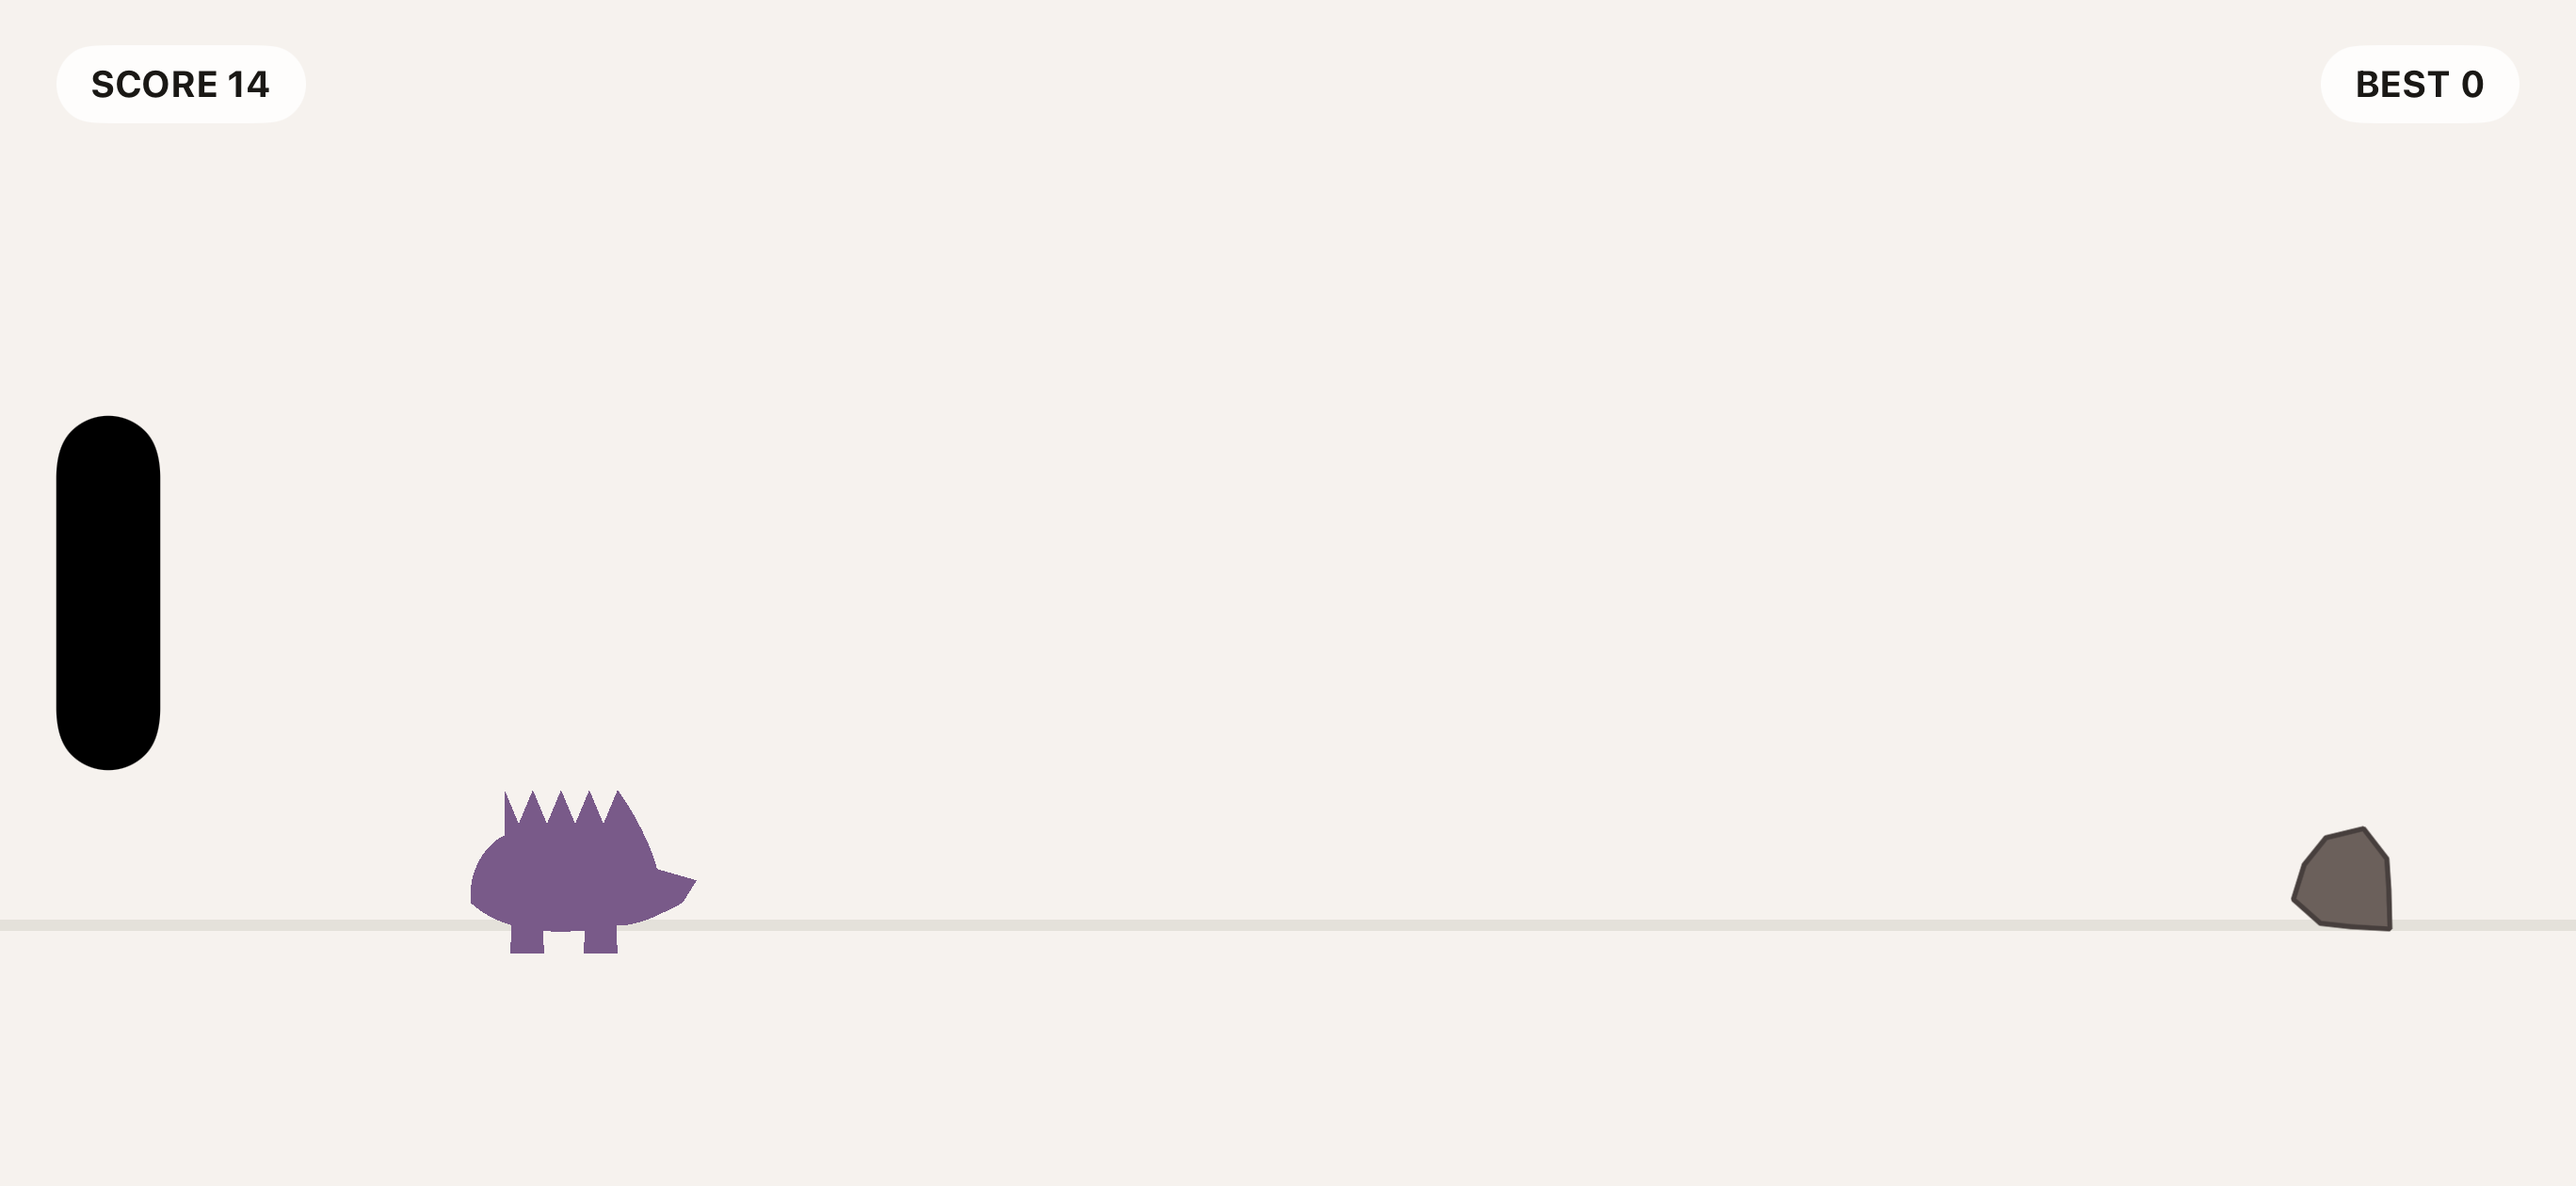
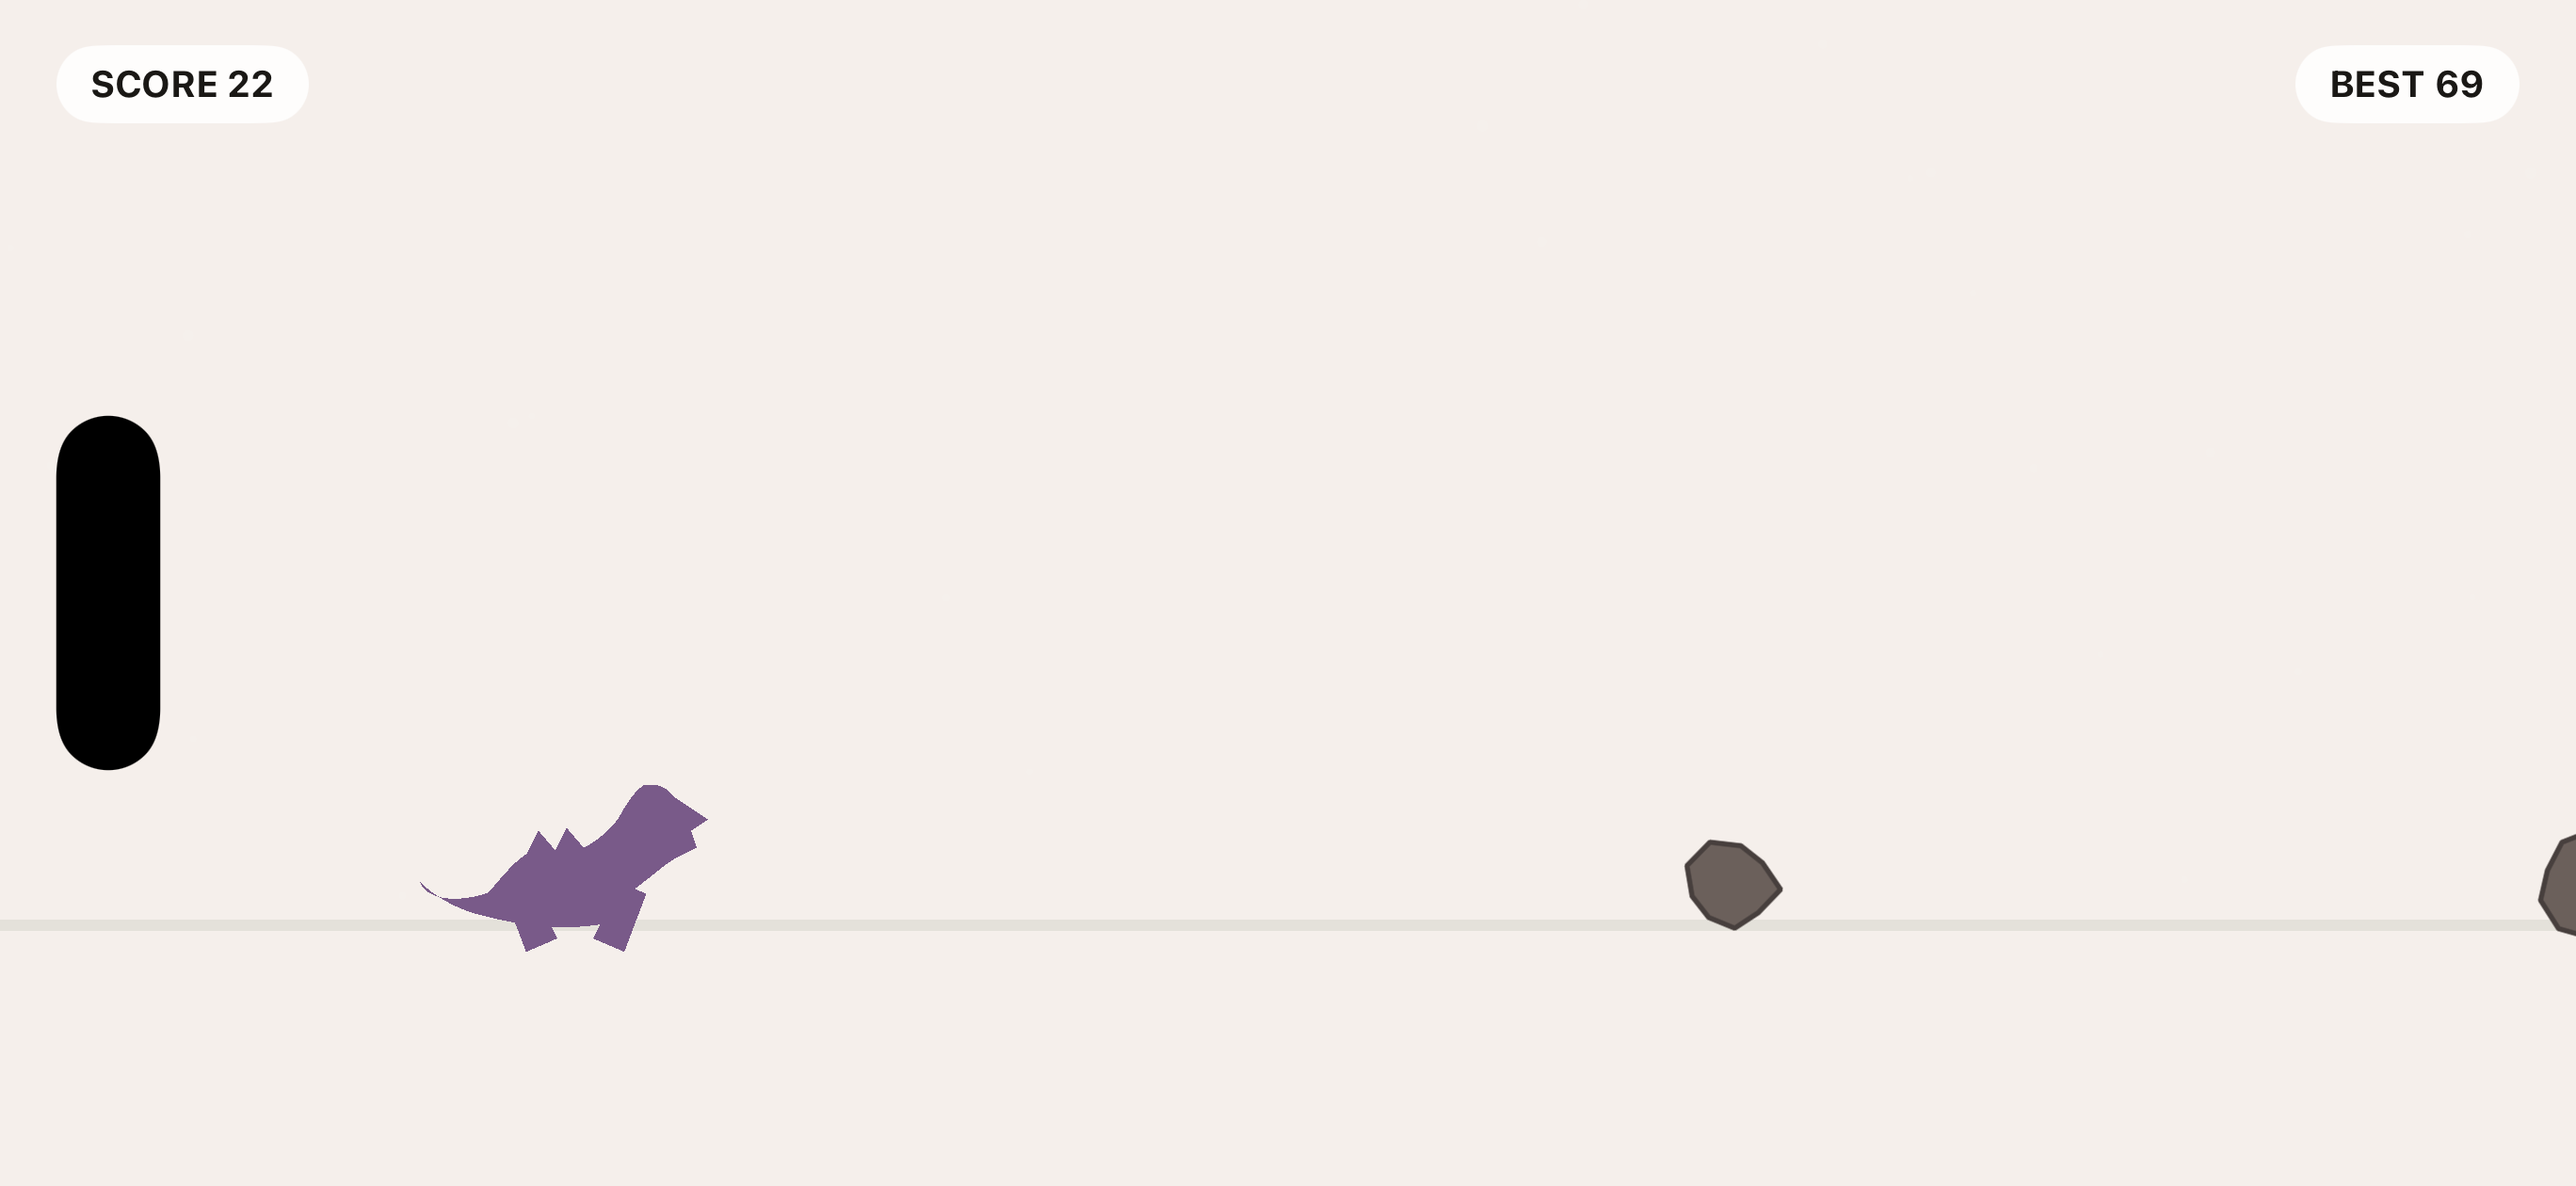
Redraw spinosaurus silhouette — was reading as a hedgehog, now a clear dinosaur profile

diff --git a/SpinoDash/Game/Spinosaurus.swift b/SpinoDash/Game/Spinosaurus.swift
@@ -13,24 +13,32 @@ final class Spinosaurus: SKNode {
 
     override init() {
         let bodyPath = UIBezierPath()
-        bodyPath.move(to: CGPoint(x: -34, y: -8))
-        bodyPath.addCurve(to: CGPoint(x: -22, y: 16),
-                           controlPoint1: CGPoint(x: -35, y: 2), controlPoint2: CGPoint(x: -30, y: 12))
-        let spikeXs: [CGFloat] = [-22, -12, -2, 8, 18]
-        for i in 0..<(spikeXs.count - 1) {
-            let midX = (spikeXs[i] + spikeXs[i + 1]) / 2
-            bodyPath.addLine(to: CGPoint(x: spikeXs[i], y: 32))
-            bodyPath.addLine(to: CGPoint(x: midX, y: 20))
-            bodyPath.addLine(to: CGPoint(x: spikeXs[i + 1], y: 32))
-        }
-        bodyPath.addCurve(to: CGPoint(x: 32, y: 4),
-                           controlPoint1: CGPoint(x: 24, y: 24), controlPoint2: CGPoint(x: 30, y: 12))
-        bodyPath.addLine(to: CGPoint(x: 46, y: 0))
-        bodyPath.addLine(to: CGPoint(x: 41, y: -8))
-        bodyPath.addCurve(to: CGPoint(x: 18, y: -16),
-                           controlPoint1: CGPoint(x: 33, y: -12), controlPoint2: CGPoint(x: 26, y: -16))
-        bodyPath.addCurve(to: CGPoint(x: -34, y: -8),
-                           controlPoint1: CGPoint(x: -2, y: -20), controlPoint2: CGPoint(x: -22, y: -19))
+        bodyPath.move(to: CGPoint(x: -52, y: -2))
+        bodyPath.addCurve(to: CGPoint(x: -28, y: -6),
+                           controlPoint1: CGPoint(x: -50, y: -8), controlPoint2: CGPoint(x: -40, y: -10))
+        bodyPath.addCurve(to: CGPoint(x: -14, y: 8),
+                           controlPoint1: CGPoint(x: -24, y: -2), controlPoint2: CGPoint(x: -20, y: 4))
+        bodyPath.addLine(to: CGPoint(x: -10, y: 16))
+        bodyPath.addLine(to: CGPoint(x: -4, y: 9))
+        bodyPath.addLine(to: CGPoint(x: 0, y: 17))
+        bodyPath.addLine(to: CGPoint(x: 6, y: 10))
+        bodyPath.addCurve(to: CGPoint(x: 18, y: 20),
+                           controlPoint1: CGPoint(x: 10, y: 12), controlPoint2: CGPoint(x: 14, y: 15))
+        bodyPath.addCurve(to: CGPoint(x: 27, y: 32),
+                           controlPoint1: CGPoint(x: 21, y: 25), controlPoint2: CGPoint(x: 23, y: 29))
+        bodyPath.addCurve(to: CGPoint(x: 38, y: 28),
+                           controlPoint1: CGPoint(x: 31, y: 33), controlPoint2: CGPoint(x: 35, y: 32))
+        bodyPath.addLine(to: CGPoint(x: 50, y: 20))
+        bodyPath.addLine(to: CGPoint(x: 44, y: 16))
+        bodyPath.addLine(to: CGPoint(x: 46, y: 10))
+        bodyPath.addLine(to: CGPoint(x: 38, y: 6))
+        bodyPath.addCurve(to: CGPoint(x: 22, y: -6),
+                           controlPoint1: CGPoint(x: 32, y: 2), controlPoint2: CGPoint(x: 28, y: -2))
+        bodyPath.addLine(to: CGPoint(x: 18, y: -16))
+        bodyPath.addCurve(to: CGPoint(x: -30, y: -14),
+                           controlPoint1: CGPoint(x: 0, y: -20), controlPoint2: CGPoint(x: -14, y: -18))
+        bodyPath.addCurve(to: CGPoint(x: -52, y: -2),
+                           controlPoint1: CGPoint(x: -38, y: -12), controlPoint2: CGPoint(x: -46, y: -8))
         bodyPath.close()
 
         bodyShape = SKShapeNode(path: bodyPath.cgPath)
@@ -51,13 +59,13 @@ final class Spinosaurus: SKNode {
         legBack = SKShapeNode(path: legPath())
         legBack.fillColor = Spinosaurus.bodyColor
         legBack.strokeColor = .clear
-        legBack.position = CGPoint(x: -14, y: -8)
+        legBack.position = CGPoint(x: -16, y: -8)
         legBack.zPosition = 1
 
         legFront = SKShapeNode(path: legPath())
         legFront.fillColor = Spinosaurus.bodyColor
         legFront.strokeColor = .clear
-        legFront.position = CGPoint(x: 12, y: -8)
+        legFront.position = CGPoint(x: 22, y: -8)
         legFront.zPosition = 3
 
         super.init()
